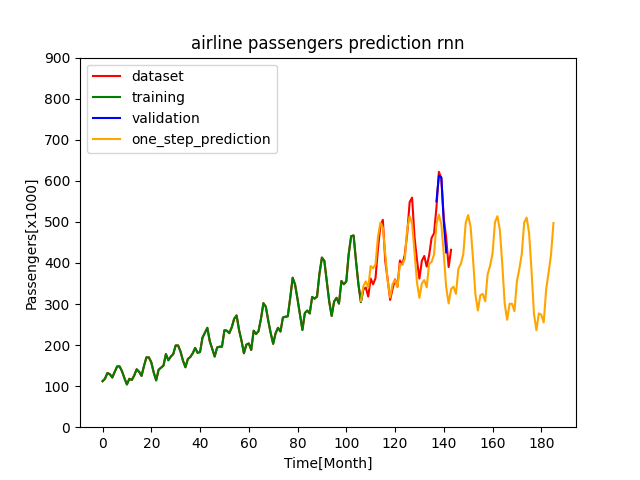
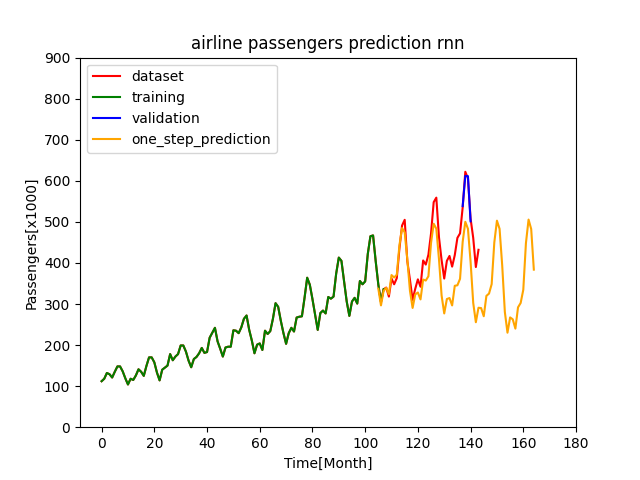
add early stopping to recurrent networs in airline passengers keras models

diff --git a/TimeSeriesPrediction/UnivariatTimeSeriesForecast/AirlinePassengers/Keras/workflows/airline_passengers_keras_recurrent_networks_workflow.py b/TimeSeriesPrediction/UnivariatTimeSeriesForecast/AirlinePassengers/Keras/workflows/airline_passengers_keras_recurrent_networks_workflow.py
@@ -1,15 +1,16 @@
 from keras import optimizers
 import matplotlib.pyplot as plt
+from keras.callbacks import EarlyStopping
 from sklearn.preprocessing import MinMaxScaler
 from TimeSeriesPrediction.UnivariatTimeSeriesForecast.AirlinePassengers.airline_passengers_utilities import *
 
-EPOCHS = 600
+EPOCHS = 800
 LEARNING_RATE = 0.001
 BATCH_SIZE = 1
 LOOK_BACK = 30
 LOOK_OUT = 1
 PREDICTION_START = -1
-NUMBER_OF_PREDICTIONS = 80
+NUMBER_OF_PREDICTIONS = 60
 
 
 def workflow(model, name):
@@ -26,8 +27,10 @@ def workflow(model, name):
     train_timeseries = train_timeseries.reshape(train_timeseries.shape[0],train_timeseries.shape[2], train_timeseries.shape[1])
     test_timeseries = test_timeseries.reshape(test_timeseries.shape[0], test_timeseries.shape[2], test_timeseries.shape[1])
 
+    early_stopping = EarlyStopping(monitor='loss', patience=75, verbose=1, restore_best_weights=True)
+
     model.compile(optimizer=optimizers.Adam(LEARNING_RATE), loss='mean_squared_error')
-    model.fit(train_timeseries, train_targets, epochs=EPOCHS, batch_size=BATCH_SIZE)
+    model.fit(train_timeseries, train_targets, epochs=EPOCHS, batch_size=BATCH_SIZE, callbacks=[early_stopping])
 
     validation_results = validation_forecast(model, test_timeseries)
 
@@ -46,7 +49,7 @@ def workflow(model, name):
 
     prediction = pd.DataFrame()
     prediction["one_step_prediction"] = train_scaler.inverse_transform([prediction_results]).flatten()
-    prediction.index += airline_passengers.threshold + start_index
+    prediction.index += airline_passengers.threshold + start_index - 1
 
     plt.plot(airline_passengers.data["Passengers"], color="red", label="dataset")
     plt.plot(airline_passengers.get_train_data(), color="green", label="training")
